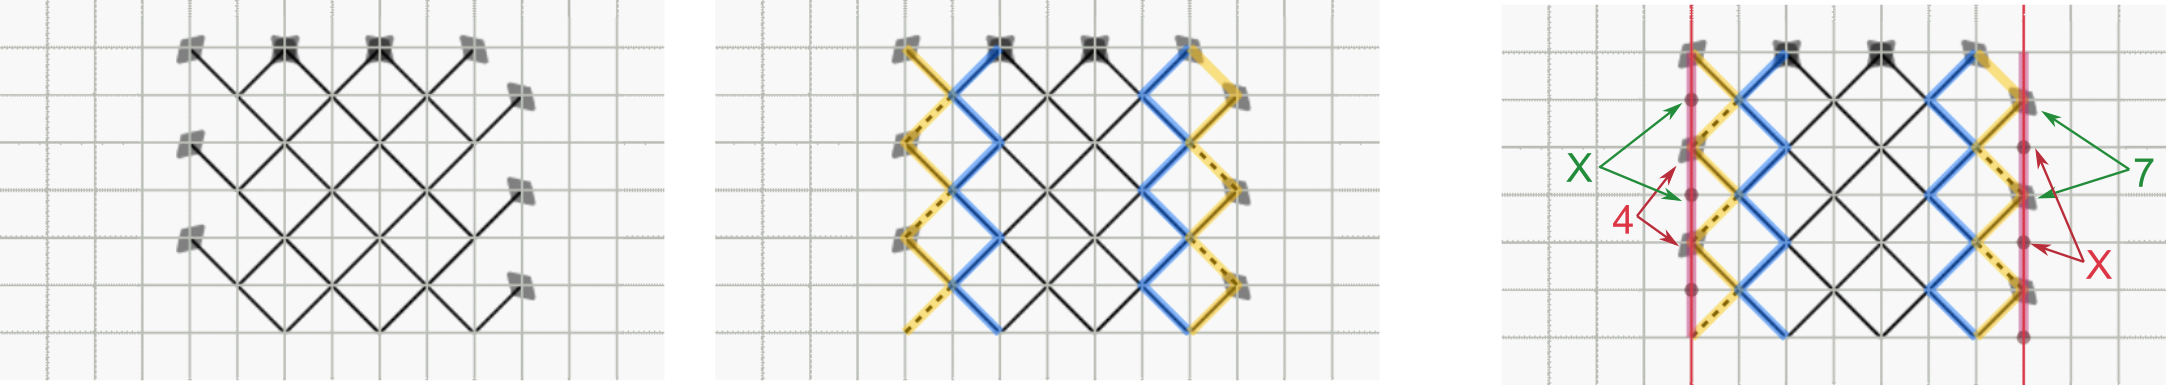
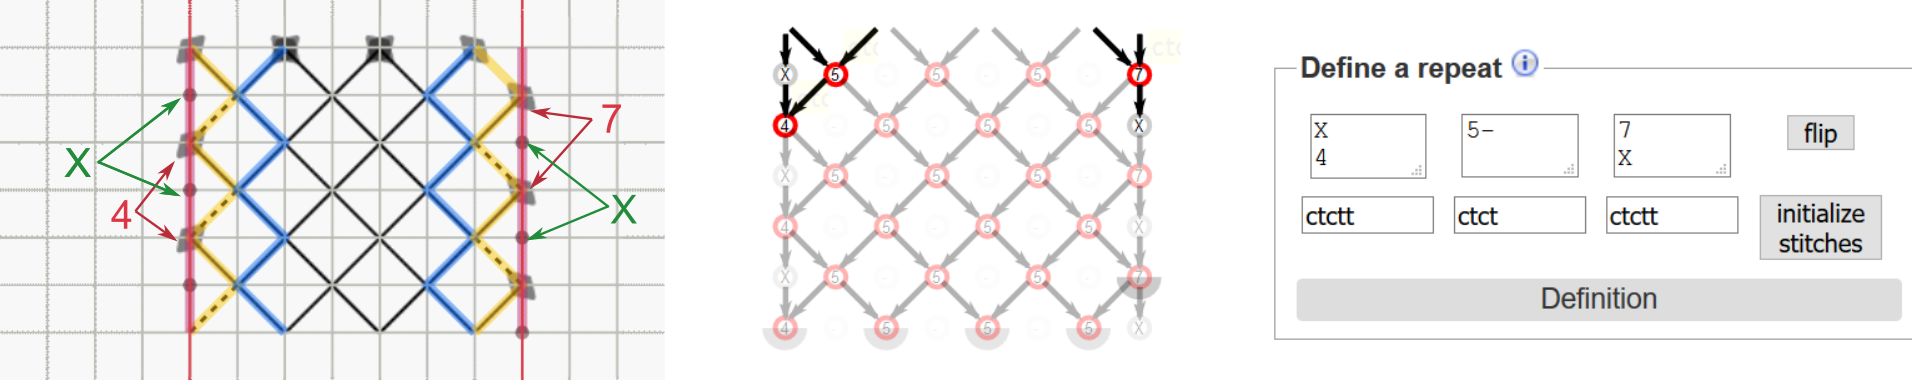
Changes to footside tutorial.

diff --git a/docs/help/Advanced.md b/docs/help/Advanced.md
@@ -110,23 +110,28 @@ The leftmost edge of the central patch is determined by the leftmost column in t
 
 The rightmost edge of the patch depends on the number of columns specified in the "Patch size".  If you change the number of columns in the patch size, the right footside may no longer match correctly.  Note that the number of columns required for the footsides are not included in the "Patch size".  They are added on top of the width that you specify.
 
-First, we will consider the simple example of Torchon Ground.  Lay a square grid over the pair diagram. A "kissing path" is a path that follows one set of pairs in the pair diagram.  When two pairs intersect, the kissing path does not cross to the other side, it just "kisses" and continues.  You can think of it as the path that a pair of threads would follow if a turning stitch (cttct) is used at each intersection.  Trace the kissing paths for the pairs at the edge of the pair diagram, shown in yellow and blue below.  Add a kissing path for the last pair (shown in red below).  Finally, label the incoming pair intersections using the symbols in the Cheat Sheet.
+First, we will consider the simple example of Torchon Ground.  Lay a square grid over the pair diagram. We must identify the loose ends of pairs along the edge and match them up where possible. To do this, we can use a "kissing path". A kissing path follows one set of pairs through the pair diagram.  When two pairs intersect, the kissing path does not cross over to the other side, it just touches the other pair ("kisses") and continues.  You can think of it as the path that a pair of threads would follow if a turning stitch (cttct) is used at each intersection.  The kissing paths for the pairs at the edge of the pair diagram are shown in yellow and blue below. Note that several incoming edges are missing on the yellow path (dashed red lines).  We can add them by labelling the incoming pair intersections using the symbols 'W', 'Y' and '-' in the Cheat Sheet:
+
+![](images/simple-wavy-footside.png)
+
+Below is the [completed footside definition](/GroundForge/tiles?patchWidth=6&patchHeight=5&b1=ctct&footside=-,Y&tile=5-&headside=W,-&footsideStitch=ctctt&tileStitch=ctct&headsideStitch=ctctt&shiftColsSW=-1&shiftRowsSW=1&shiftColsSE=1&shiftRowsSE=1). Footside definitions are repeated in one direction, like a frieze pattern.  In this example, the definition for the left footside of the Torchon ground is "-,Y" so the left footside will be "-,Y,-,Y,-,Y,..." for as many rows as are in the patch. Note that in this example, the footside definition has two rows while the ground definition only has one row.  The ground and footside definitions may not always have the same number of rows.
+
+![](images/simple-wavy-footside-prototype.png)
+  
+Alternatively, we can make the edge straight by adding another pair of threads, shown in red below. 
 
 ![](images/simple-footside.png)
 
-Below is the completed footside definition. Footside definitions are repeated in one direction, like a frieze pattern.  In this example, the definition for the left footside of the Torchon ground is "X,4" so the left footside will be "X,4,X,4,X,4,..." for as many rows as are in the patch. Note that in this example, the footside definition has two rows while the ground definition only has one row.  The ground and footside definitions may not always have the same number of rows.
 
-![](images/simple-footside-definition.png)
-
-Now consider the more complicated example of [G-4] in the Whiting sampler.  We follow the same steps: lay a grid over the pair diagram and trace out the kissing paths on the left edge of the pattern.  Note that this time the blue and green kissing paths are not complete.  There are missing sections meaning that pairs are left hanging.  For the left footside, we need to complete the blue and green kissing paths.  We also added a red kissing path to make a clean straight edge. In total, three columns were required to define this footside.
+Now consider the more complicated example of [G-4] in the Whiting sampler.  We follow the same steps: lay a grid over the pair diagram and trace out the kissing paths on the left edge of the pattern.  Note that this time the blue and green kissing paths are not complete; large sections are missing.  We need to add intersections to complete the blue and green kissing paths.  We can also add another kissing path, shown in red, to make a clean straight edge. In total, this footside requires three columns.
 
 ![](images/complex-footside.png)
 
-Below is the completed footside definition.  Notice the red box around "V,6" in the ground area of the prototype.  In the original definition, this was "-,L" which draws a long horizontal edge.  The long edge stuck out on the left side of the patch.  We can get a better looking footside by shortening this edge.  In order to get a short edge on the left side of the patch, we changed the ground definition to use two short horizontal edges in a row ("V,6") instead of one long edge ("-,L").  The symbols "V,6" and "-,L" look the same in the thread diagram.  On the footside, we can cut the ground pattern off at "6" which gives a nicer looking result (see red box around "C,6", the "C" intersection is part of the footside.  The "6" intersection is part of the ground).  We invite you to experiment with [G-4 with left footside] and develop a right footside.
+Below is [G-4 with left footside].  Notice the red box around "V,6" in the ground area of the prototype.  In the original definition, this was "-,L" which draws a long horizontal edge.  The long edge stuck out on the left side of the patch.  We can get a better looking footside by shortening this edge.  In order to get a short edge on the left side of the patch, we changed the ground definition to use two short horizontal edges in a row ("V,6") instead of one long edge ("-,L").  The symbols "V,6" and "-,L" look the same in the thread diagram.  On the footside, we can cut the ground pattern off at "6" which gives a nicer looking result (see red box around "C,6", the "C" intersection is part of the footside.  The "6" intersection is part of the ground).  As an exercise, create the right footside ([solution]()).
 
 ![](images/complex-footside-definition.png)
 
-In these examples, the footside has ended in a simple straight line.  Othe roptions are possible.  You can define a wavy footside or you can make the footside more elaborate to include several passives.
+You can also create a traditional footside that has several [passives].
 
 [G-4]: /GroundForge/tiles?whiting=G4_P201&patchWidth=40&patchHeight=19&i1=ctctt&f1=ctc&e1=ctc&d1=ctc&c1=ctc&a1=ctctt&g2=ctc&i3=ctc&f3=ctc&e3=ctc&d3=ctc&c3=ctcll&a3=ctctt&n4=ctctt&l4=ctctt&j4=ctctt&h4=ctctt&f4=ctt&d4=ctcll&c4=ctcll&b4=ctctt&g5=ctctt&c5=ctctt&n6=ctctt&j6=ctctt&m7=c&k7=ctc&j7=ctc&i7=ctctt&g7=ctctt&e7=ctctt&c7=ctctt&a7=ctctt&tile=5-m998-z5-----,------5-------,g-aaab-wd-----,-246-m-l-o-k-e,--5---5---y-w-,---w-y---b---c,h-g-5-n-l3h-e-,&footsideStitch=ctctt&tileStitch=ctc&headsideStitch=ctctt&shiftColsSW=-7&shiftRowsSW=7&shiftColsSE=7&shiftRowsSE=7
 
